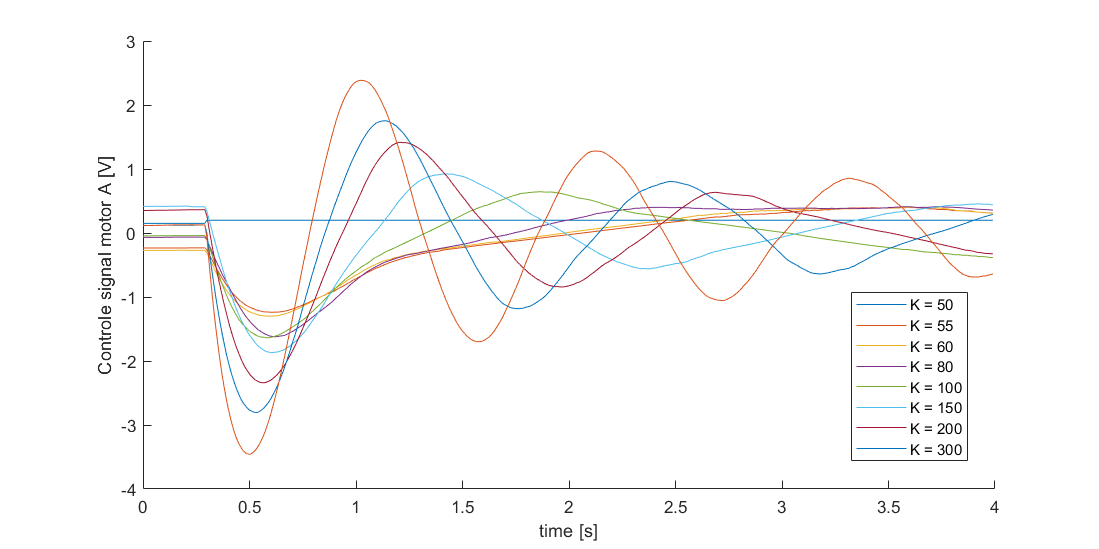
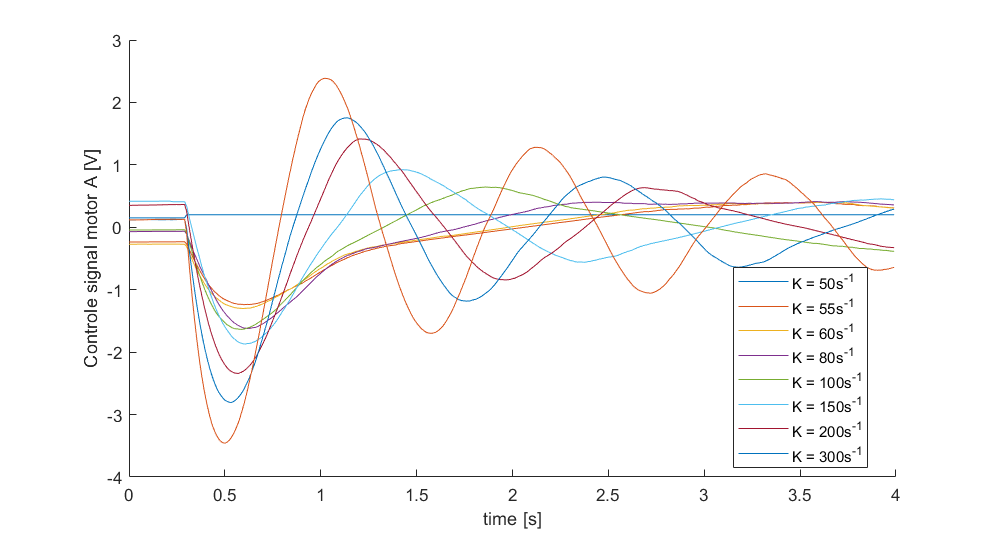
nog aanpassingen voor verslag

diff --git a/Assignment3/Q_tuning.m b/Assignment3/Q_tuning.m
@@ -1,37 +1,39 @@
 close all; clear all;
 
-file = ".\measured data\Q_tuning\Q1e-8_R0.000000095199_K100.csv";
-        
-        csvfile = file;
-        labels = strsplit(fileread(csvfile), '\n'); % Split file in lines
-        labels = strsplit(labels{:, 2}, ', '); % Split and fetch the labels (they are in line 2 of every record)
-        data = dlmread(csvfile, ',', 2, 0); % Data follows the labels
+% file = ".\measured data\Q_tuning\Q1e-9_R0.000000095199_K100.csv";
+%         
+%         csvfile = file;
+%         labels = strsplit(fileread(csvfile), '\n'); % Split file in lines
+%         labels = strsplit(labels{:, 2}, ', '); % Split and fetch the labels (they are in line 2 of every record)
+%         data = dlmread(csvfile, ',', 2, 0); % Data follows the labels
 
-t = data(:,1);
-VoltA = data(:,2);
-VoltB = data(:,3);
-DesiredVelocity = data(:,4);
-xA = data(:,5);
-xB = data(:,6);
-vA = data(:,7);
-vB = data(:,8);
-FrontDistance = data(:,9);
-xhat = data(:,10);
-phat = data(:,11);
-nu = data(:,12);
-S = data(:,13);
+[data,files,t,Ts,len] = Data_Preprocessing_b('.\measured data\Q_tuning\', 690);
 
+VoltA = data(:,2,:);
+VoltB = data(:,3,:);
+DesiredVelocity = data(:,4,:);
+xA = data(:,5,:);
+xB = data(:,6,:);
+vA = data(:,7,:);
+vB = data(:,8,:);
+FrontDistance = data(:,9,:);
+xhat = data(:,10,:);
+phat = data(:,11,:);
+nu = data(:,12,:);
+S = data(:,13,:);
+
+
+desired_plots = [1 4 5]
+titles = ["Q = 1e-1m^2" "Q = 1e-8m^2" "Q = 1e-9m^2"]
 figure
-hold on;
-title("overlay")
-plot(t, -FrontDistance);
-plot(t, xhat);
-legend("FD", "xhat")
-
-figure; hold on;
-title("xhat")
-plot(t, xhat);
-
-figure; hold on;
-title("estimation error")
-plot(t, xhat+FrontDistance);
+hold on 
+for i = 1:3
+    subplot(3,1,i)
+    hold on
+    plot(t, xhat(:,1,desired_plots(i)))
+    plot(t, -FrontDistance(:,1,desired_plots(i)))
+    xlabel("t [s]",'Interpreter','Latex')
+    ylabel('-$\hat{x}$ [m] , y [m]','Interpreter','Latex')
+    title(titles(i))
+    legend('Estimated state', 'Measured front distance')
+end

diff --git a/Assignment3/Vraag3b.m b/Assignment3/Vraag3b.m
@@ -36,7 +36,7 @@ for i=1:c
 end
 xlabel("time [s]")
 ylabel("measured distance [m]")
-legend("step input","K = 50","K = 55","K = 60","K = 80","K = 100","K = 150","K = 200","K = 300")
+legend("step input","K = 50s^{-1}","K = 55s^{-1}","K = 60s^{-1}","K = 80s^{-1}","K = 100s^{-1}","K = 150s^{-1}","K = 200s^{-1}","K = 300s^{-1}")
 
 figure
 hold on
@@ -46,4 +46,4 @@ for i=1:c
 end
 xlabel("time [s]")
 ylabel("Controle signal motor A [V]")
-legend("K = 50","K = 55","K = 60","K = 80","K = 100","K = 150","K = 200","K = 300", "Location","best")
+legend("K = 50s^{-1}","K = 55s^{-1}","K = 60s^{-1}","K = 80s^{-1}","K = 100s^{-1}","K = 150s^{-1}","K = 200s^{-1}","K = 300s^{-1}", "Location","best")
